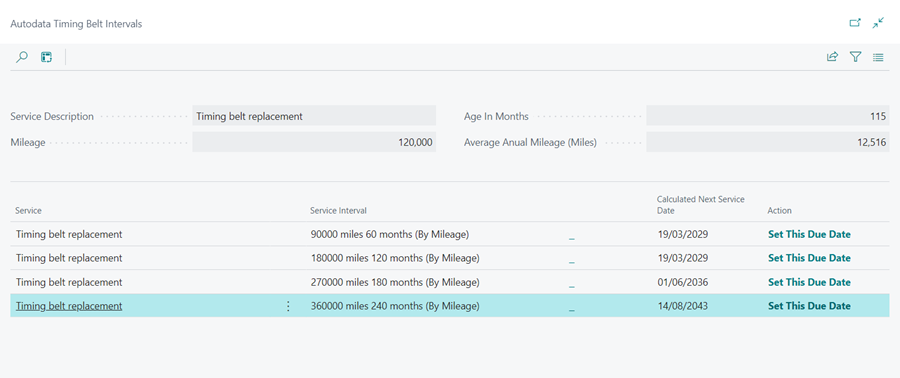
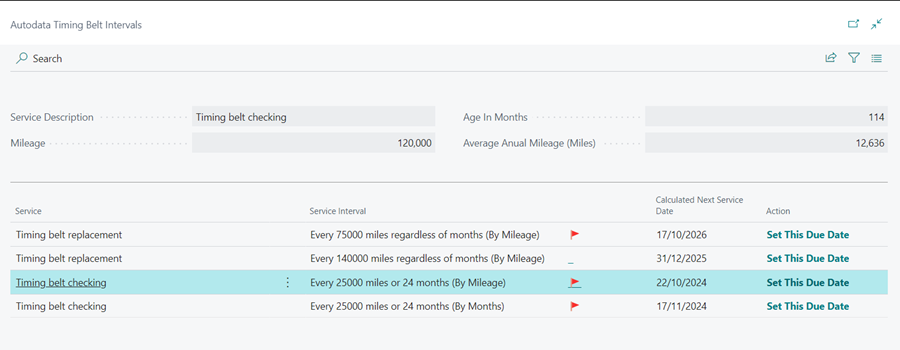
timing belt change

diff --git a/docs/garagehive-timing-belt-intervals-how-to-use-timing-belt-intervals.md b/docs/garagehive-timing-belt-intervals-how-to-use-timing-belt-intervals.md
@@ -27,14 +27,19 @@ To check the timing belt interval from the menu bar:
    * **Age in Months**: The age of the vehicle at the time of booking.
    * **Average Annual Mileage (Miles)**: This is calculated by dividing the vehicle's current mileage by its current age.
    * **Service Interval**: This is based on the manufacturer's specifications obtained from Autodata.
-   * **Calculated Next Service Date**: Suggested timing belt change service date based on the manufacturer's recommendation in miles or months.
+   * **Calculated Next Service Date**: Suggested timing belt service date based on the manufacturer's recommendation in miles or months.
    * **Action**: By clicking on the action, you can set the timing belt service date as recommended in the Calculated Next Service Date field.
 
       ![](media/garagehive-timing-belt-intervals2.png)
 
-4. Choose your preferred date from the calculated timing belt service dates in miles or months, and click on the **Set This Due Date** in the Action column. The selected date is added into the **Timing Belt Due Date** field in the vehicle reminder dates section.
+4. The red flag indicates that the suggested timing belt service date is applicable for countries with high level of dust.
+
+   ![](media/garagehive-timing-belt-intervals7.png)
+
+5. Choose your preferred date from the calculated timing belt service dates in miles or months, and click on the **Set This Due Date** in the Action column. The selected date is added into the **Timing Belt Due Date** field in the vehicle reminder dates section.
 
    ![](media/garagehive-timing-belt-intervals5.png)
+
 
 [Go back to top](#top)
 
